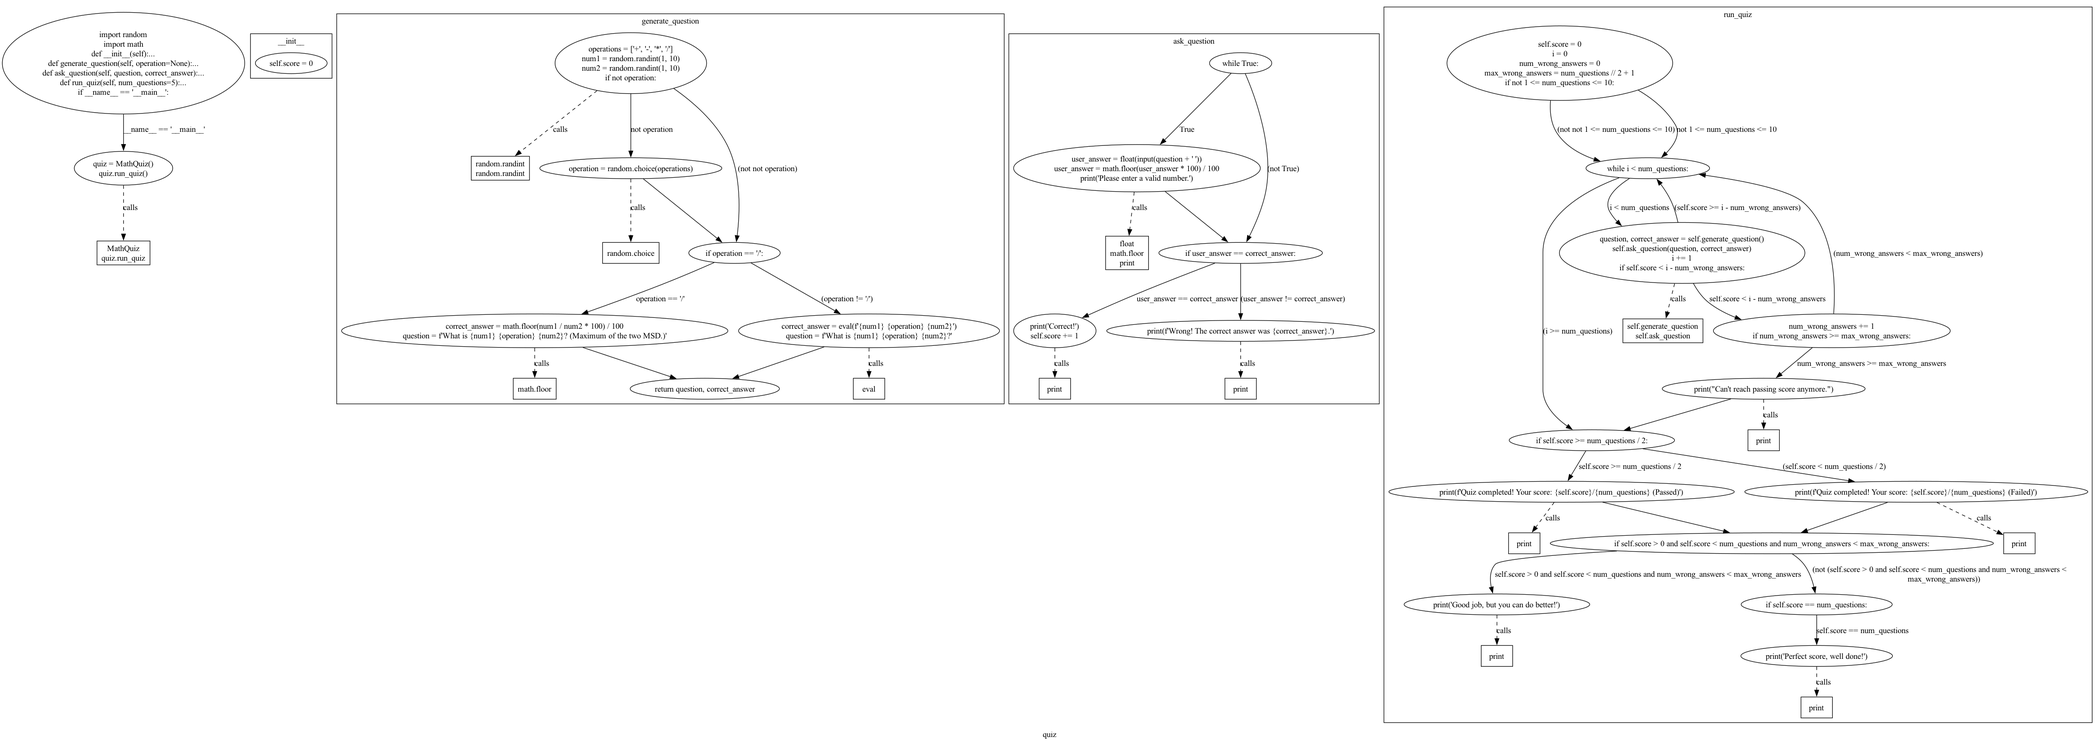
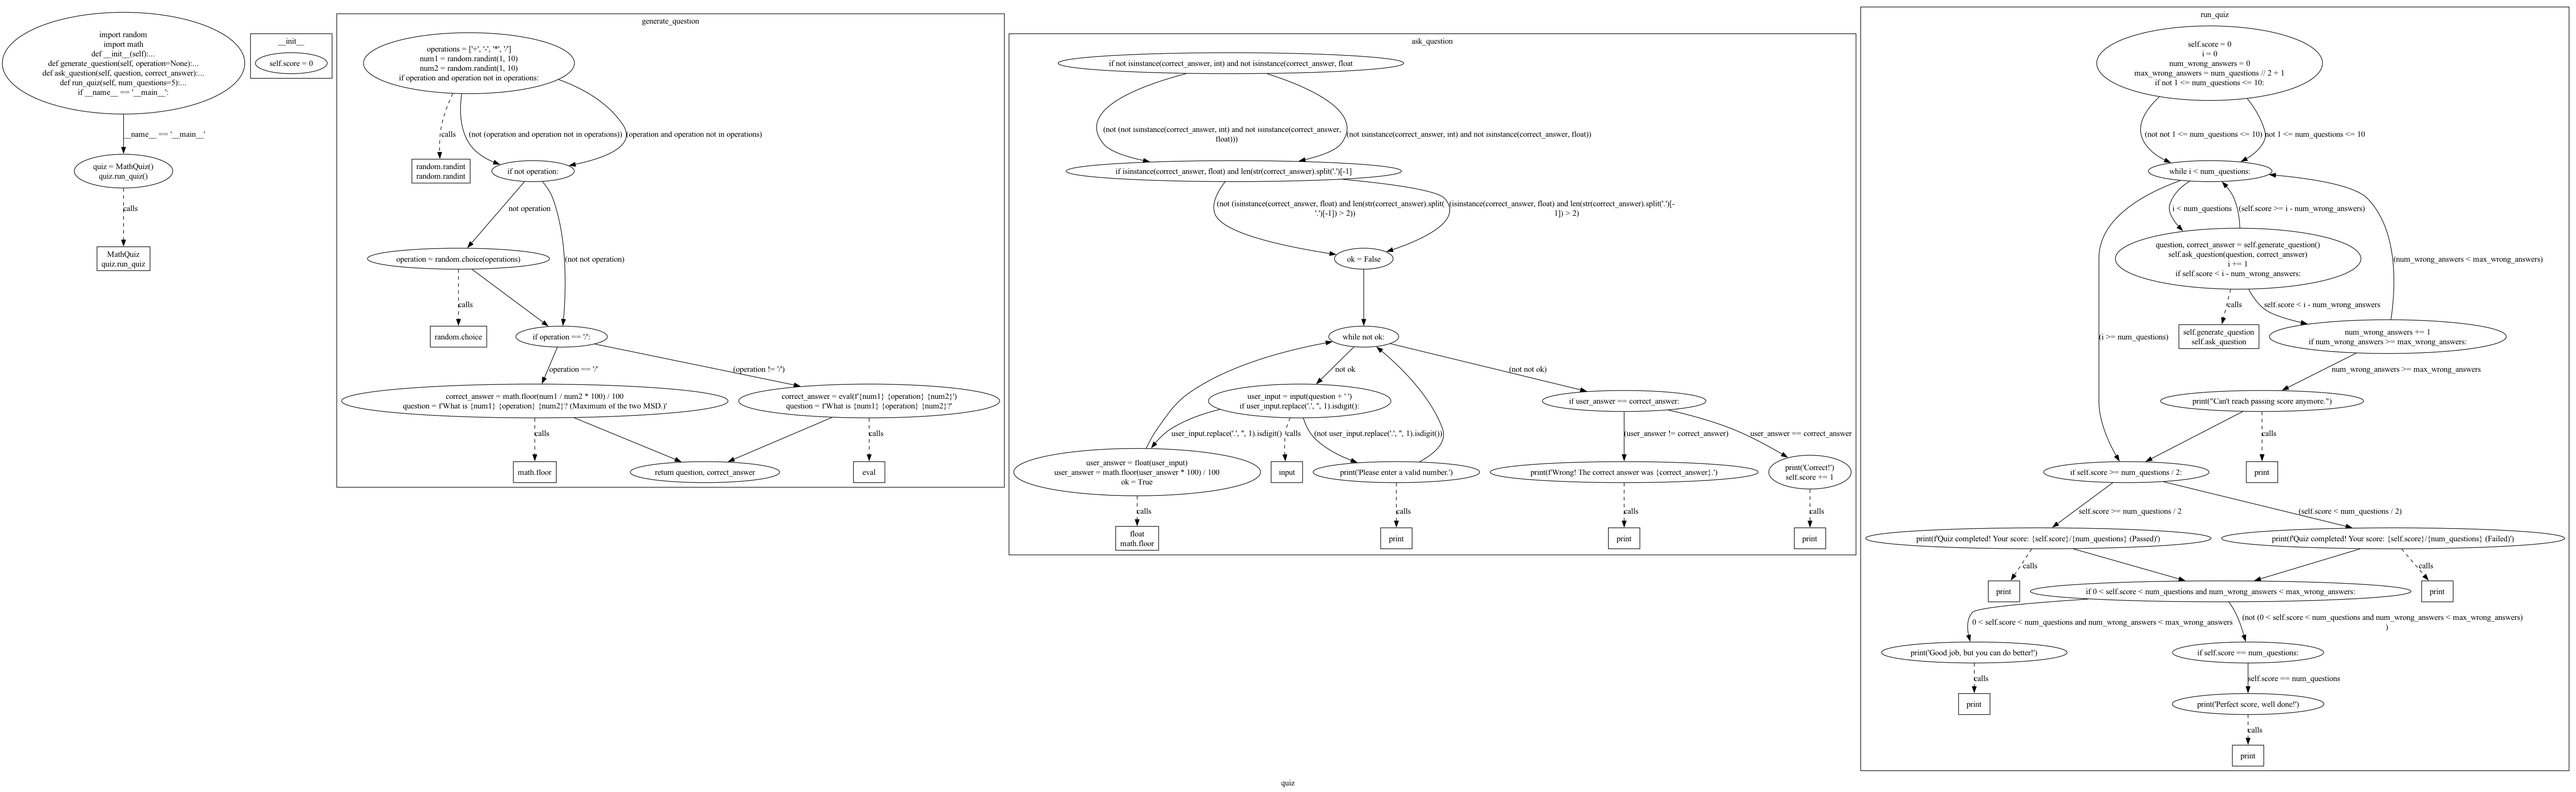
Modified ask_question

diff --git a/math_quiz.py b/math_quiz.py
@@ -31,12 +31,13 @@ class MathQuiz:
         if isinstance(correct_answer, float) and len(str(correct_answer).split('.')[-1]) > 2:
                 raise ValueError("correct_answer as a float must not have more than two decimal places.")
 
-        while True:
+        ok = False
+        while not ok:
             user_input = input(question + " ")
             if user_input.replace('.', '', 1).isdigit():
                 user_answer = float(user_input)
                 user_answer = math.floor(user_answer * 100) / 100
-                break
+                ok = True
             else:
                 print("Please enter a valid number.")
 
